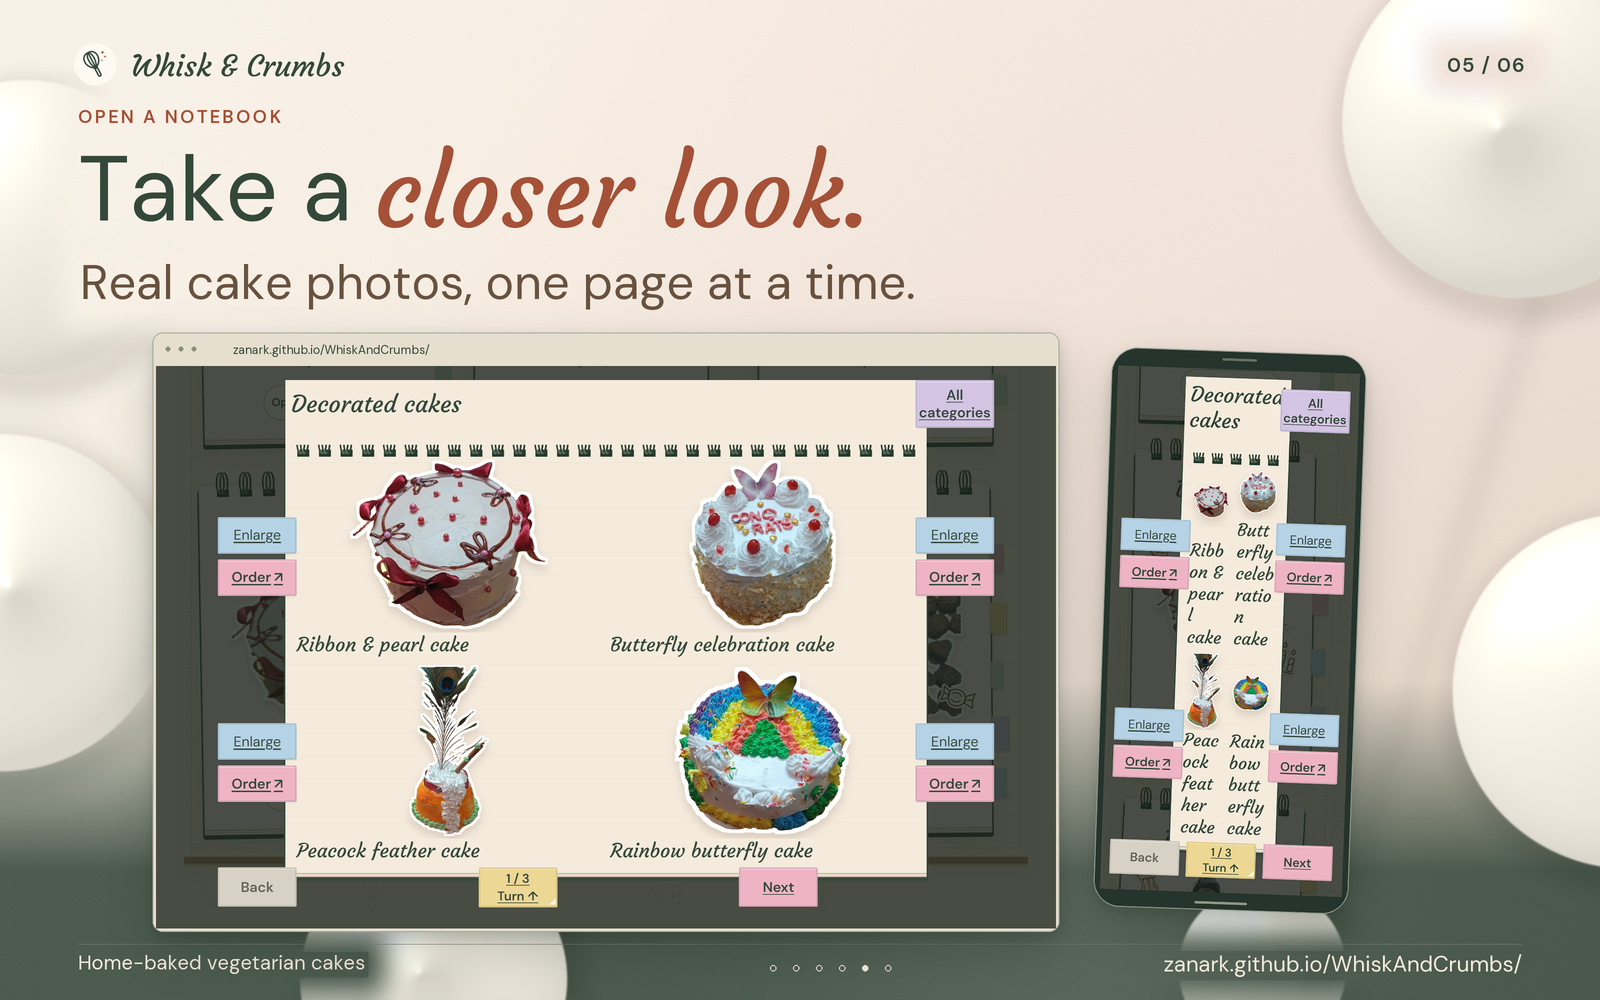
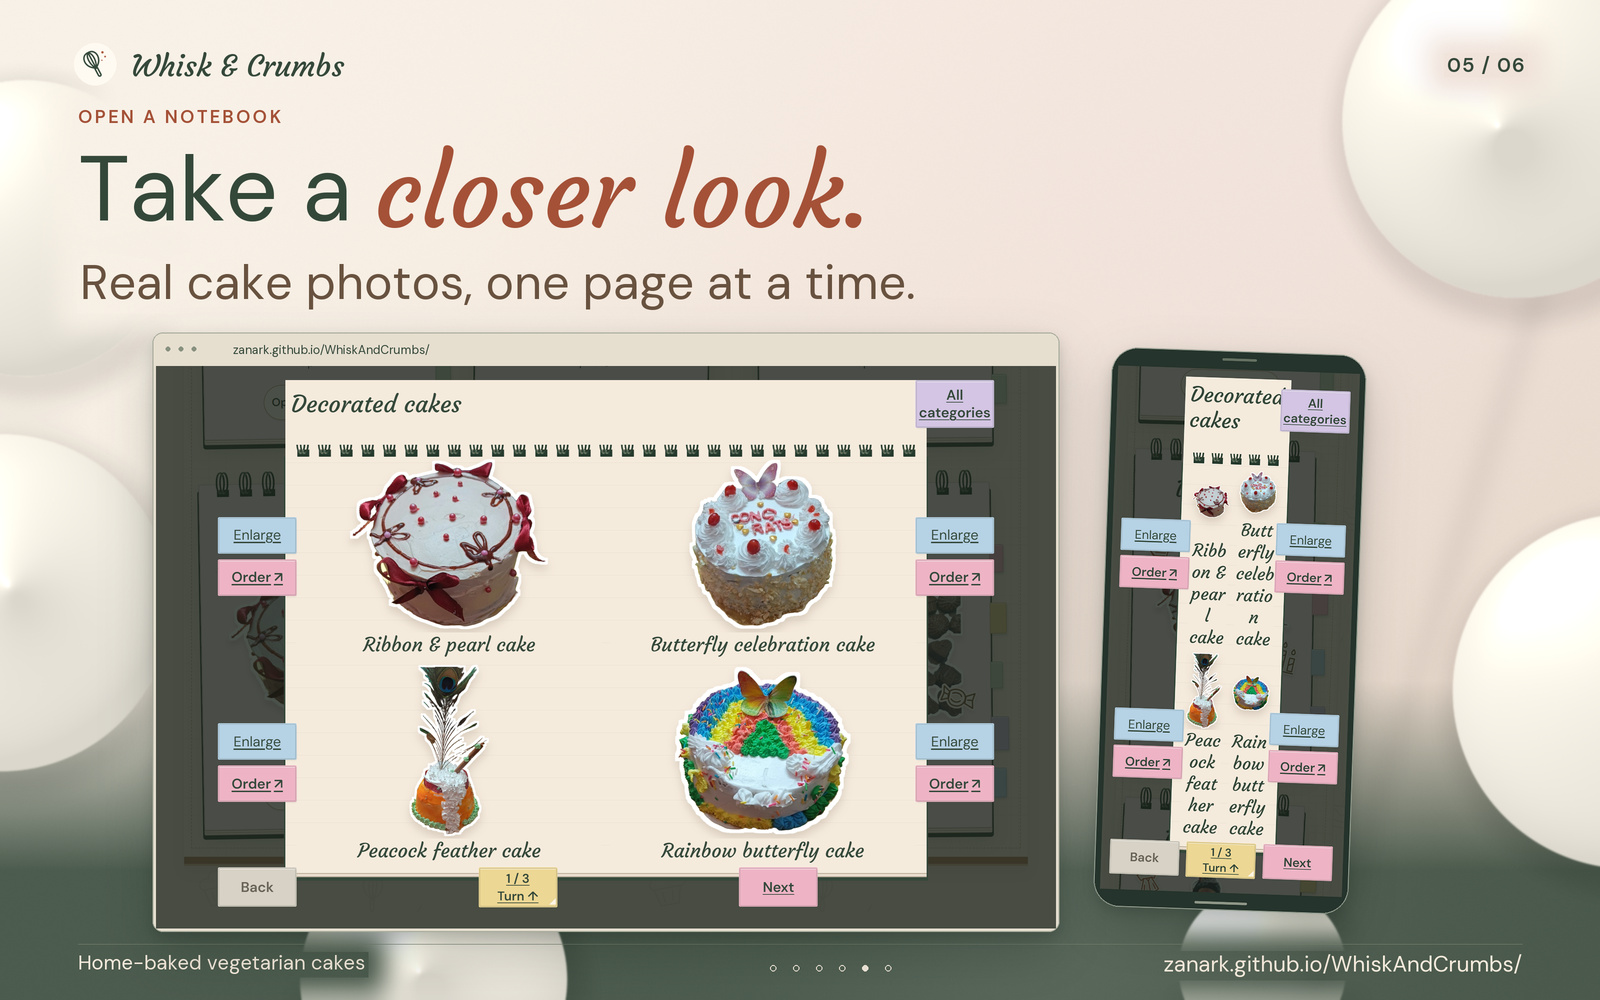
Center every cake name beneath its photograph
Use full-width centered captions in enhanced and static notebooks, preserving typography and controls. Refresh the matching notebook showcase.

Copilot-Session: 065222f9-e445-4b98-a549-e6948580c174

diff --git a/site/index.html b/site/index.html
@@ -22,32 +22,32 @@
   <link rel="icon" href="assets/favicon.svg" type="image/svg+xml" sizes="any">
   <link rel="apple-touch-icon" href="assets/apple-touch-icon.png" sizes="180x180">
   <link rel="preload" href="assets/fonts/courgette-regular.ttf" as="font" type="font/ttf" crossorigin>
-  <link rel="stylesheet" href="styles.css?v=5bd5689496ef">
-  <link rel="stylesheet" href="entrance-shop.css?v=5bd5689496ef">
-  <link rel="stylesheet" href="cozy-bakery.css?v=5bd5689496ef">
-  <link rel="stylesheet" href="readability.css?v=5bd5689496ef">
-  <link rel="modulepreload" href="entrance.mjs?v=5bd5689496ef">
-  <link rel="modulepreload" href="bell.mjs?v=5bd5689496ef">
-  <link rel="modulepreload" href="notebooks.mjs?v=5bd5689496ef">
-  <script type="module" src="main.mjs?v=5bd5689496ef"></script>
+  <link rel="stylesheet" href="styles.css?v=e75de07cb66a">
+  <link rel="stylesheet" href="entrance-shop.css?v=e75de07cb66a">
+  <link rel="stylesheet" href="cozy-bakery.css?v=e75de07cb66a">
+  <link rel="stylesheet" href="readability.css?v=e75de07cb66a">
+  <link rel="modulepreload" href="entrance.mjs?v=e75de07cb66a">
+  <link rel="modulepreload" href="bell.mjs?v=e75de07cb66a">
+  <link rel="modulepreload" href="notebooks.mjs?v=e75de07cb66a">
+  <script type="module" src="main.mjs?v=e75de07cb66a"></script>
 </head>
 <body>
   <a class="skip-link" href="#main">Skip to cakes and ordering</a>
   <div id="bakery-entrance" class="bakery-entrance" data-state="pending" data-audio="waiting">
     <div class="entrance-art" aria-hidden="true">
       <div class="entrance-backdrop"></div>
-      <div class="entrance-shop" style="--facade-plaster:url('assets/bakery-facade-plaster.webp?v=5bd5689496ef');--sign-wood:url('assets/bakery-sign-wood.webp?v=5bd5689496ef')">
+      <div class="entrance-shop" style="--facade-plaster:url('assets/bakery-facade-plaster.webp?v=e75de07cb66a');--sign-wood:url('assets/bakery-sign-wood.webp?v=e75de07cb66a')">
         <div class="entrance-masonry"></div>
         <picture class="entrance-upper-storey">
-          <source media="(max-width: 600px)" srcset="assets/bakery-facade-upper-mobile.svg?v=5bd5689496ef">
-          <img src="assets/bakery-facade-upper.svg?v=5bd5689496ef" width="1200" height="360" alt="" decoding="async">
+          <source media="(max-width: 600px)" srcset="assets/bakery-facade-upper-mobile.svg?v=e75de07cb66a">
+          <img src="assets/bakery-facade-upper.svg?v=e75de07cb66a" width="1200" height="360" alt="" decoding="async">
         </picture>
         <div class="entrance-sign" data-brand="Whisk &amp; Crumbs">
           <img class="entrance-sign-mark" src="assets/whisk-and-crumbs-mark.svg" width="128" height="128" alt="">
           <span class="entrance-sign-copy"><span class="entrance-wordmark">Whisk &amp; Crumbs</span><span class="entrance-descriptor">Home-baked vegetarian cakes</span></span>
         </div>
         <span class="entrance-cornice"></span>
-        <div class="entrance-awning"><img src="assets/bakery-awning.svg?v=5bd5689496ef" width="1200" height="300" alt="" decoding="async"><span class="awning-supports" style="background-image:url('assets/bakery-awning-supports.svg?v=5bd5689496ef')"></span></div>
+        <div class="entrance-awning"><img src="assets/bakery-awning.svg?v=e75de07cb66a" width="1200" height="300" alt="" decoding="async"><span class="awning-supports" style="background-image:url('assets/bakery-awning-supports.svg?v=e75de07cb66a')"></span></div>
         <span class="entrance-pier entrance-pier-left"></span><span class="entrance-pier entrance-pier-right"></span>
         <div class="entrance-doorway">
           <div class="entrance-bell-mount"></div>
@@ -61,9 +61,9 @@
           <div class="entrance-doorframe">
             <div class="entrance-room">
               <picture class="entrance-room-poster">
-                <source media="(max-aspect-ratio: 4/5)" srcset="assets/bakery-interior-portrait.webp?v=5bd5689496ef">
-                <source media="(max-height: 600px)" srcset="assets/bakery-interior-short.webp?v=5bd5689496ef">
-                <img src="assets/bakery-interior-wide.webp?v=5bd5689496ef" width="1600" height="1000" alt="" decoding="async">
+                <source media="(max-aspect-ratio: 4/5)" srcset="assets/bakery-interior-portrait.webp?v=e75de07cb66a">
+                <source media="(max-height: 600px)" srcset="assets/bakery-interior-short.webp?v=e75de07cb66a">
+                <img src="assets/bakery-interior-wide.webp?v=e75de07cb66a" width="1600" height="1000" alt="" decoding="async">
               </picture>
             </div>
             <div class="entrance-fixed-bay entrance-fixed-bay-left"><span class="entrance-display-glass"></span><span class="entrance-bay-panel"></span></div>
@@ -93,7 +93,7 @@
         </div>
         <span class="entrance-threshold"></span>
         <span class="entrance-step"></span>
-        <img class="entrance-pavement" src="assets/bakery-facade-ground.svg?v=5bd5689496ef" width="1200" height="140" alt="" decoding="async">
+        <img class="entrance-pavement" src="assets/bakery-facade-ground.svg?v=e75de07cb66a" width="1200" height="140" alt="" decoding="async">
       </div>
     </div>
     <a id="entrance-enter" class="entrance-enter" href="#home" aria-label="Open the bakery doors and enter">
@@ -107,7 +107,7 @@
   </div>
   <noscript><style>.bakery-entrance { display: none !important; }</style></noscript>
   <header class="site-header">
-    <div class="shop-sign" style="--sign-wood:url('assets/bakery-sign-wood.webp?v=5bd5689496ef')">
+    <div class="shop-sign" style="--sign-wood:url('assets/bakery-sign-wood.webp?v=e75de07cb66a')">
       <div class="container header-inner">
         <a class="brand" href="#home" aria-label="Whisk &amp; Crumbs - home">
           <img src="assets/whisk-and-crumbs-mark.svg" width="128" height="128" alt="">
@@ -121,7 +121,7 @@
       </nav>
     </div>
   </header>
-  <div class="site-awning" aria-hidden="true"><img src="assets/bakery-awning.svg?v=5bd5689496ef" width="1200" height="300" alt="" decoding="async"><span class="awning-supports" style="background-image:url('assets/bakery-awning-supports.svg?v=5bd5689496ef')"></span></div>
+  <div class="site-awning" aria-hidden="true"><img src="assets/bakery-awning.svg?v=e75de07cb66a" width="1200" height="300" alt="" decoding="async"><span class="awning-supports" style="background-image:url('assets/bakery-awning-supports.svg?v=e75de07cb66a')"></span></div>
 
   <main id="main" tabindex="-1">
     <section class="hero-section" id="home" aria-labelledby="hero-title">
@@ -724,7 +724,7 @@
         </div>
       </div>
     </section>
-    <div class="bakery-shelf" aria-hidden="true"><img src="assets/bakery-shelf.svg?v=5bd5689496ef" width="960" height="120" alt="" loading="lazy" decoding="async"></div>
+    <div class="bakery-shelf" aria-hidden="true"><img src="assets/bakery-shelf.svg?v=e75de07cb66a" width="960" height="120" alt="" loading="lazy" decoding="async"></div>
   </main>
 
   <footer class="container site-footer">

diff --git a/site/readability.css b/site/readability.css
@@ -25,5 +25,6 @@ body { font-size: var(--reading-size); line-height: 1.75; }
 .notebook-dialog .notebook-dialog-toolbar > p { font-size: 2.125rem; line-height: 1.2; }
 .category-notebook .cake-card-info h4,
 .category-notebook .notebook-sheet-copy h4, #photo-title { font-size: 1.75rem; line-height: 1.25; }
+.category-notebook .cake-card-info h4 { width: 100%; text-align: center; }
 .category-notebook [data-page-counter], .category-notebook .notebook-turn-label,
 .category-notebook .notebook-empty-note, #notebook-fit-note, #photo-counter { font-size: 1.125rem; line-height: 1.25; }

diff --git a/README.md b/README.md
@@ -6,6 +6,6 @@
 
 [![Find your kind of cake: genuine views of the pink notebooks, larger category titles, real cake stickers and solid pastel tabs, surrounded by cream-blob editorial decoration.](site/assets/showcase/04-cake-notebooks.jpg?v=d36c0d293010)](https://zanark.github.io/WhiskAndCrumbs/#cakes)
 
-[![Take a closer look: complete desktop and mobile four-photo notebook views with larger cake names and opaque Enlarge and Order tabs, framed by softly lit cream blobs outside the website captures.](site/assets/showcase/05-open-notebook.jpg?v=18d2da8ed47d)](https://zanark.github.io/WhiskAndCrumbs/#cakes)
+[![Take a closer look: complete desktop and mobile four-photo notebook views with centered cake names and opaque Enlarge and Order tabs, framed by softly lit cream blobs outside the website captures.](site/assets/showcase/05-open-notebook.jpg?v=4a16cb045333)](https://zanark.github.io/WhiskAndCrumbs/#cakes)
 
 [![Your next cake starts with hello: genuine desktop and mobile ordering views, readable supporting copy and the website address on a forest-green composition with sculpted cream-blob accents.](site/assets/showcase/06-simple-ordering.jpg?v=11065b21ebe3)](https://zanark.github.io/WhiskAndCrumbs/#order)

diff --git a/ABOUT.md b/ABOUT.md
@@ -107,7 +107,7 @@ strips. Only the space outside its visible outline is transparent, keeping the
 tabs clearly outside the paper. **All categories**, page controls and each photo's
 **Enlarge / Order** tabs project beyond that outline, with generous click/tap areas.
 Cake names and category headings use larger type, with clearly labelled,
-generously sized controls.
+generously sized controls. Each cake name is centered beneath its photograph.
 Enlarged photographs also fit the screen; their titles and controls wrap without
 forcing sideways scrolling.
 
